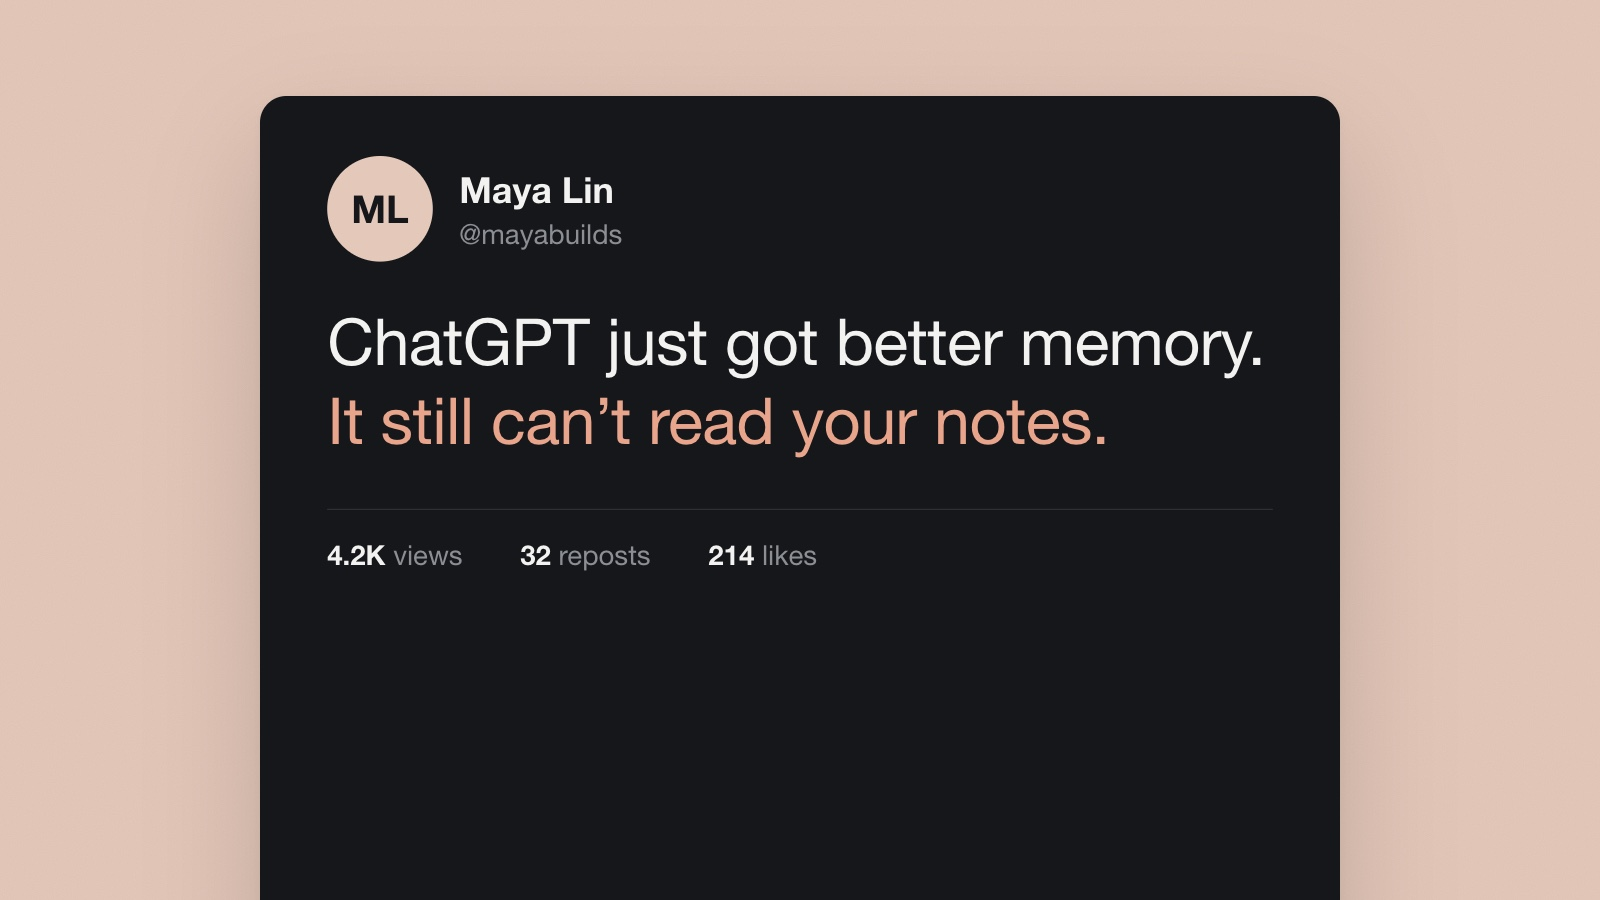
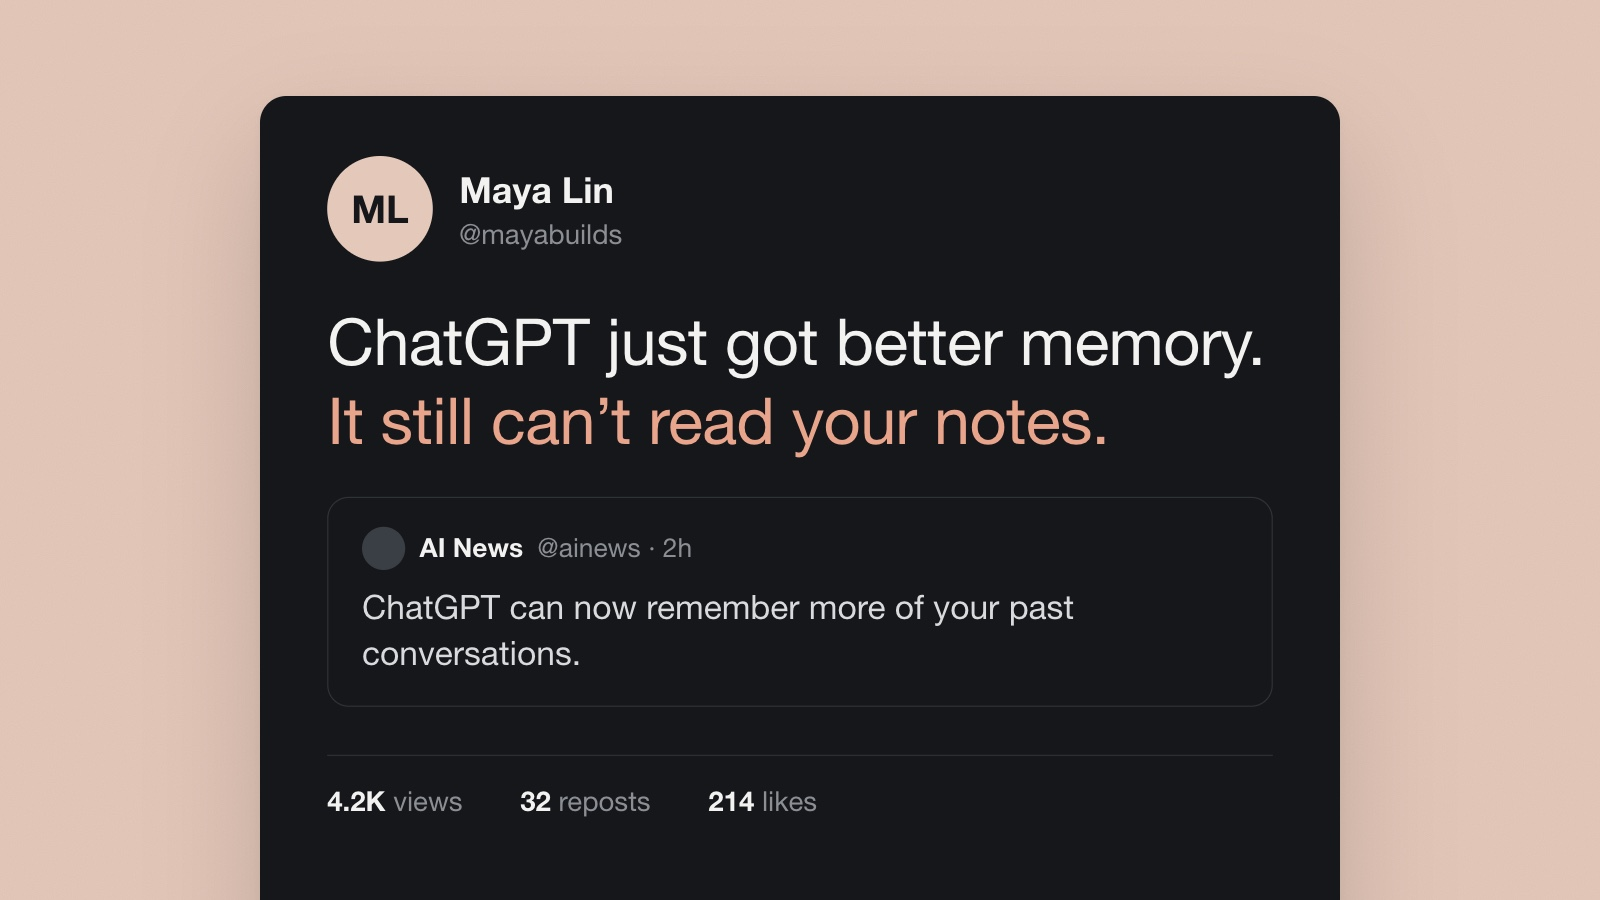
Quote the source post on the X cover
The post now quotes the news it answers, so the cover shows the workflow
(what's hot, then your take) and the dark card no longer ends in an empty
block.

diff --git a/covers/x-content-starter.html b/covers/x-content-starter.html
@@ -11,6 +11,11 @@
   .author span { display: block; font-size: 23px; color: #8b8f94; margin-top: 4px; }
   .text { font-size: 54px; line-height: 1.22; margin-top: 34px; letter-spacing: -0.5px; }
   .text em { font-style: normal; color: #e9a58c; }
+  .quote { margin-top: 30px; padding: 24px 28px 26px; border: 1.5px solid #2f3336; border-radius: 18px; }
+  .quote .who { display: flex; gap: 12px; align-items: center; font-size: 22px; color: #8b8f94; }
+  .quote .who i { width: 36px; height: 36px; border-radius: 50%; background: #3a3f45; }
+  .quote .who b { color: #f2f2f0; font-weight: 600; }
+  .quote p { font-size: 28px; line-height: 1.35; margin-top: 12px; color: #d9dadb; }
   .stats { display: flex; gap: 48px; margin-top: 40px; padding-top: 24px; border-top: 1.5px solid #2c2f33; font-size: 23px; color: #8b8f94; }
   .stats b { color: #f2f2f0; font-weight: 600; }
 </style>
@@ -20,6 +25,10 @@
   <div class="thing">
     <div class="author"><div class="avatar">ML</div><div><b>Maya Lin</b><span>@mayabuilds</span></div></div>
     <p class="text">ChatGPT just got better memory. <em>It still can’t read your notes.</em></p>
+    <div class="quote">
+      <div class="who"><i></i><b>AI News</b><span>@ainews · 2h</span></div>
+      <p>ChatGPT can now remember more of your past conversations.</p>
+    </div>
     <div class="stats"><span><b>4.2K</b> views</span><span><b>32</b> reposts</span><span><b>214</b> likes</span></div>
   </div>
 </body>
